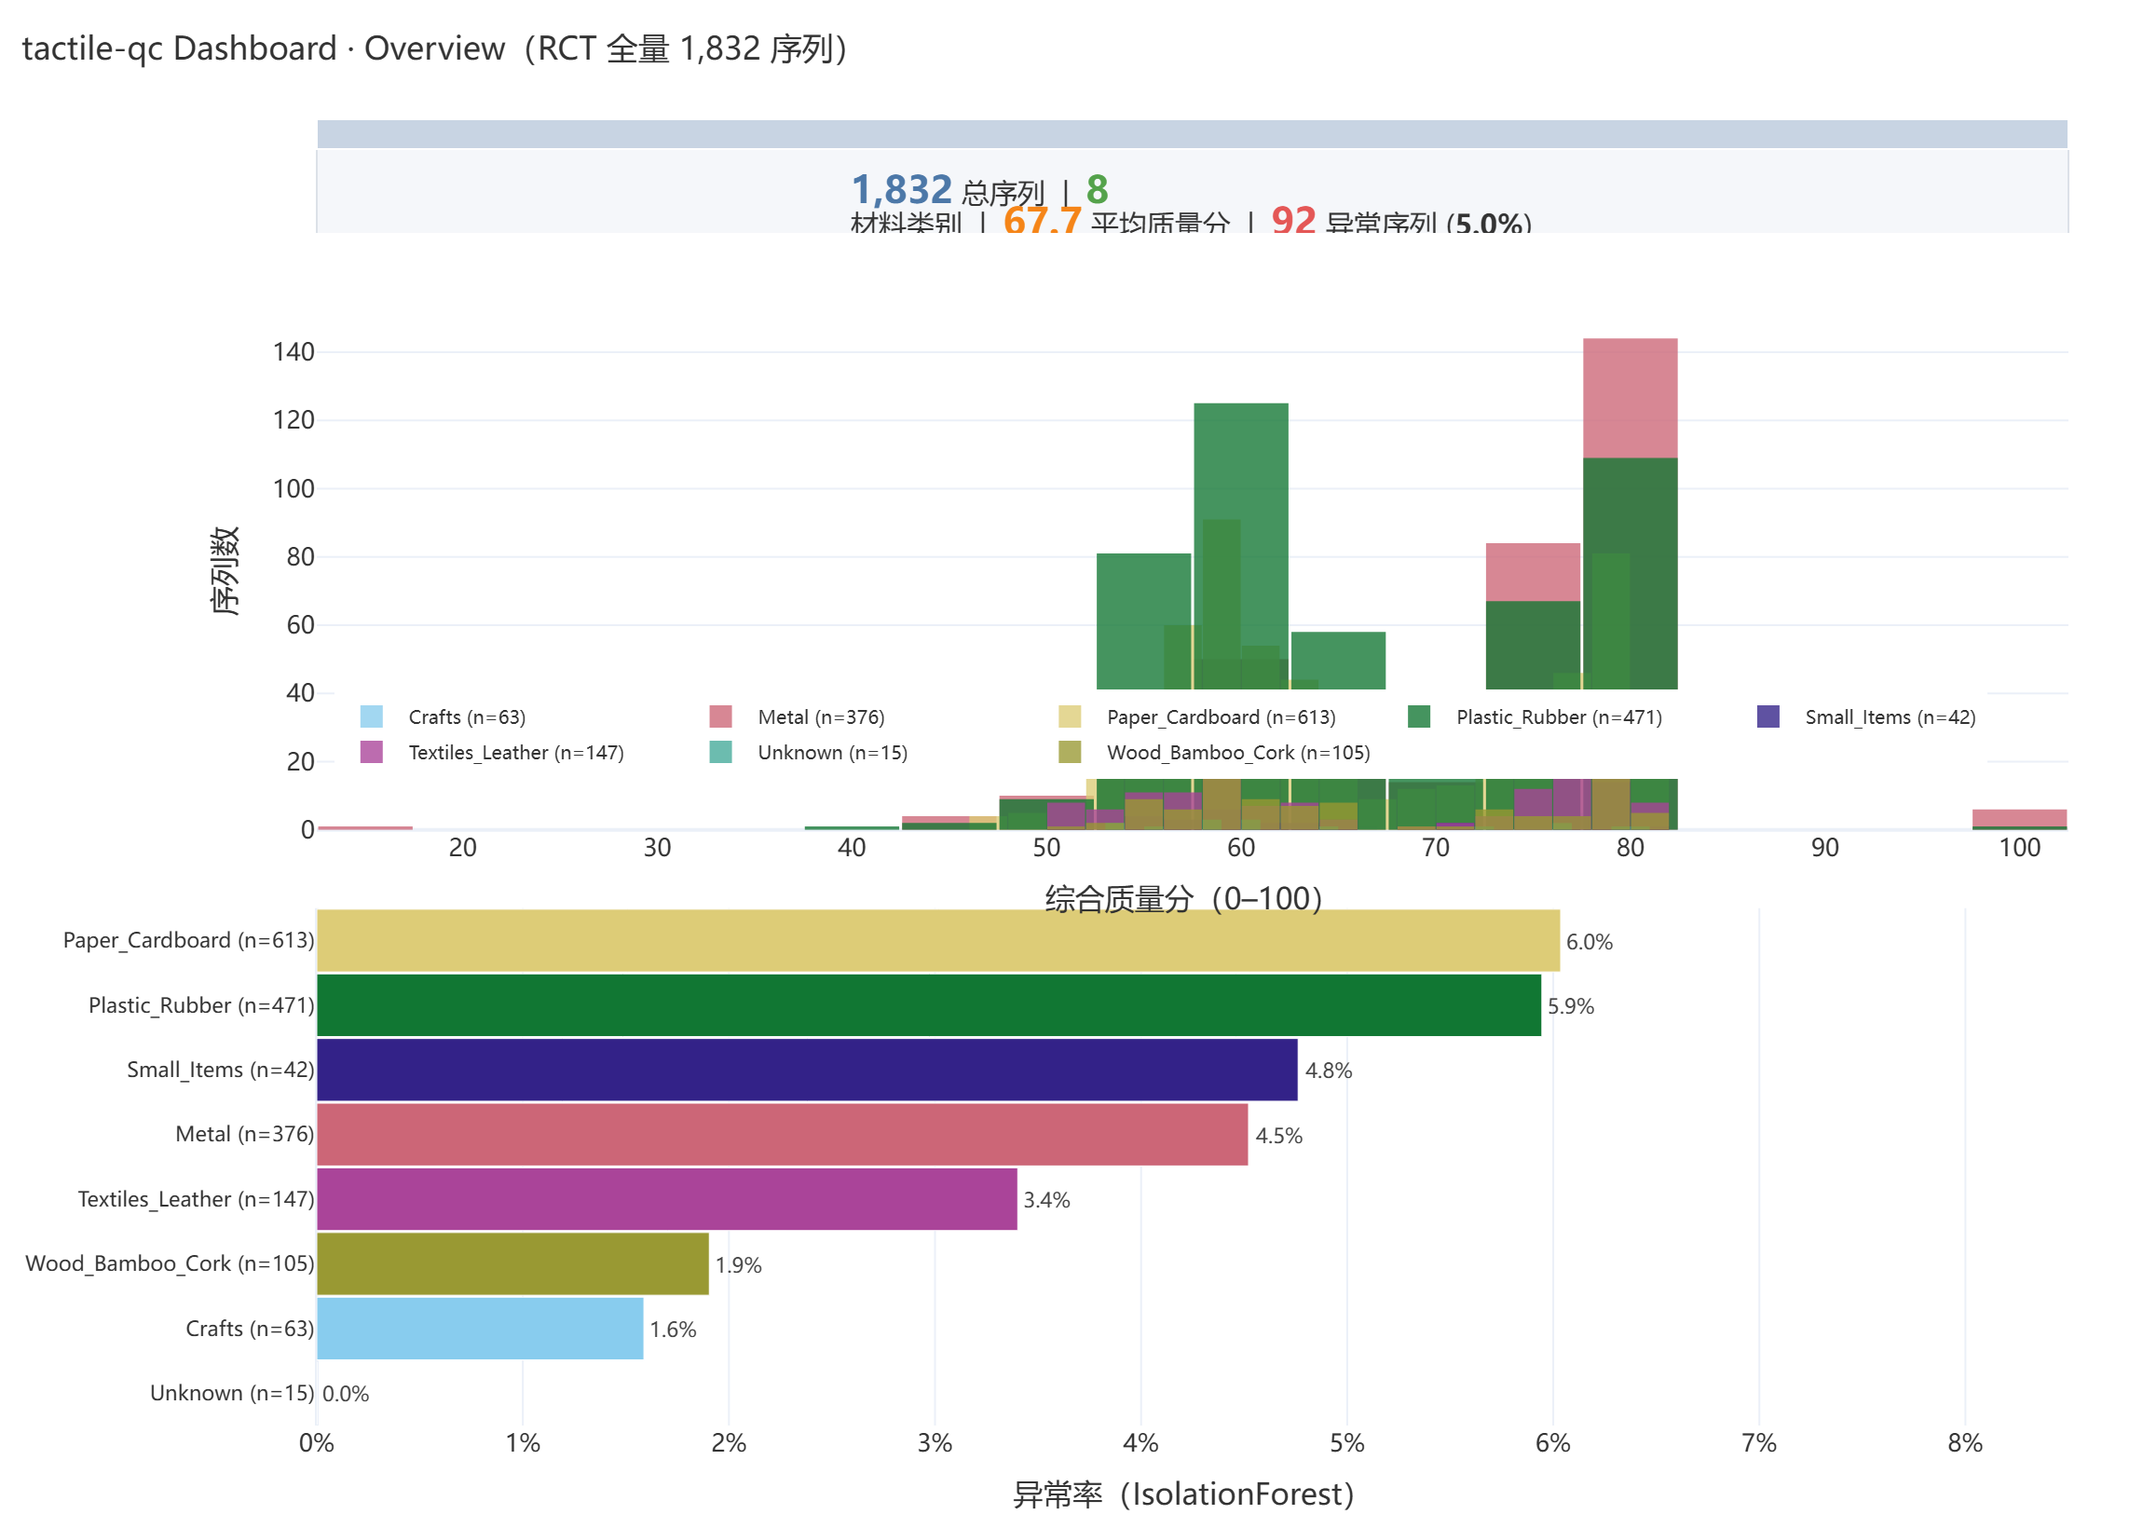
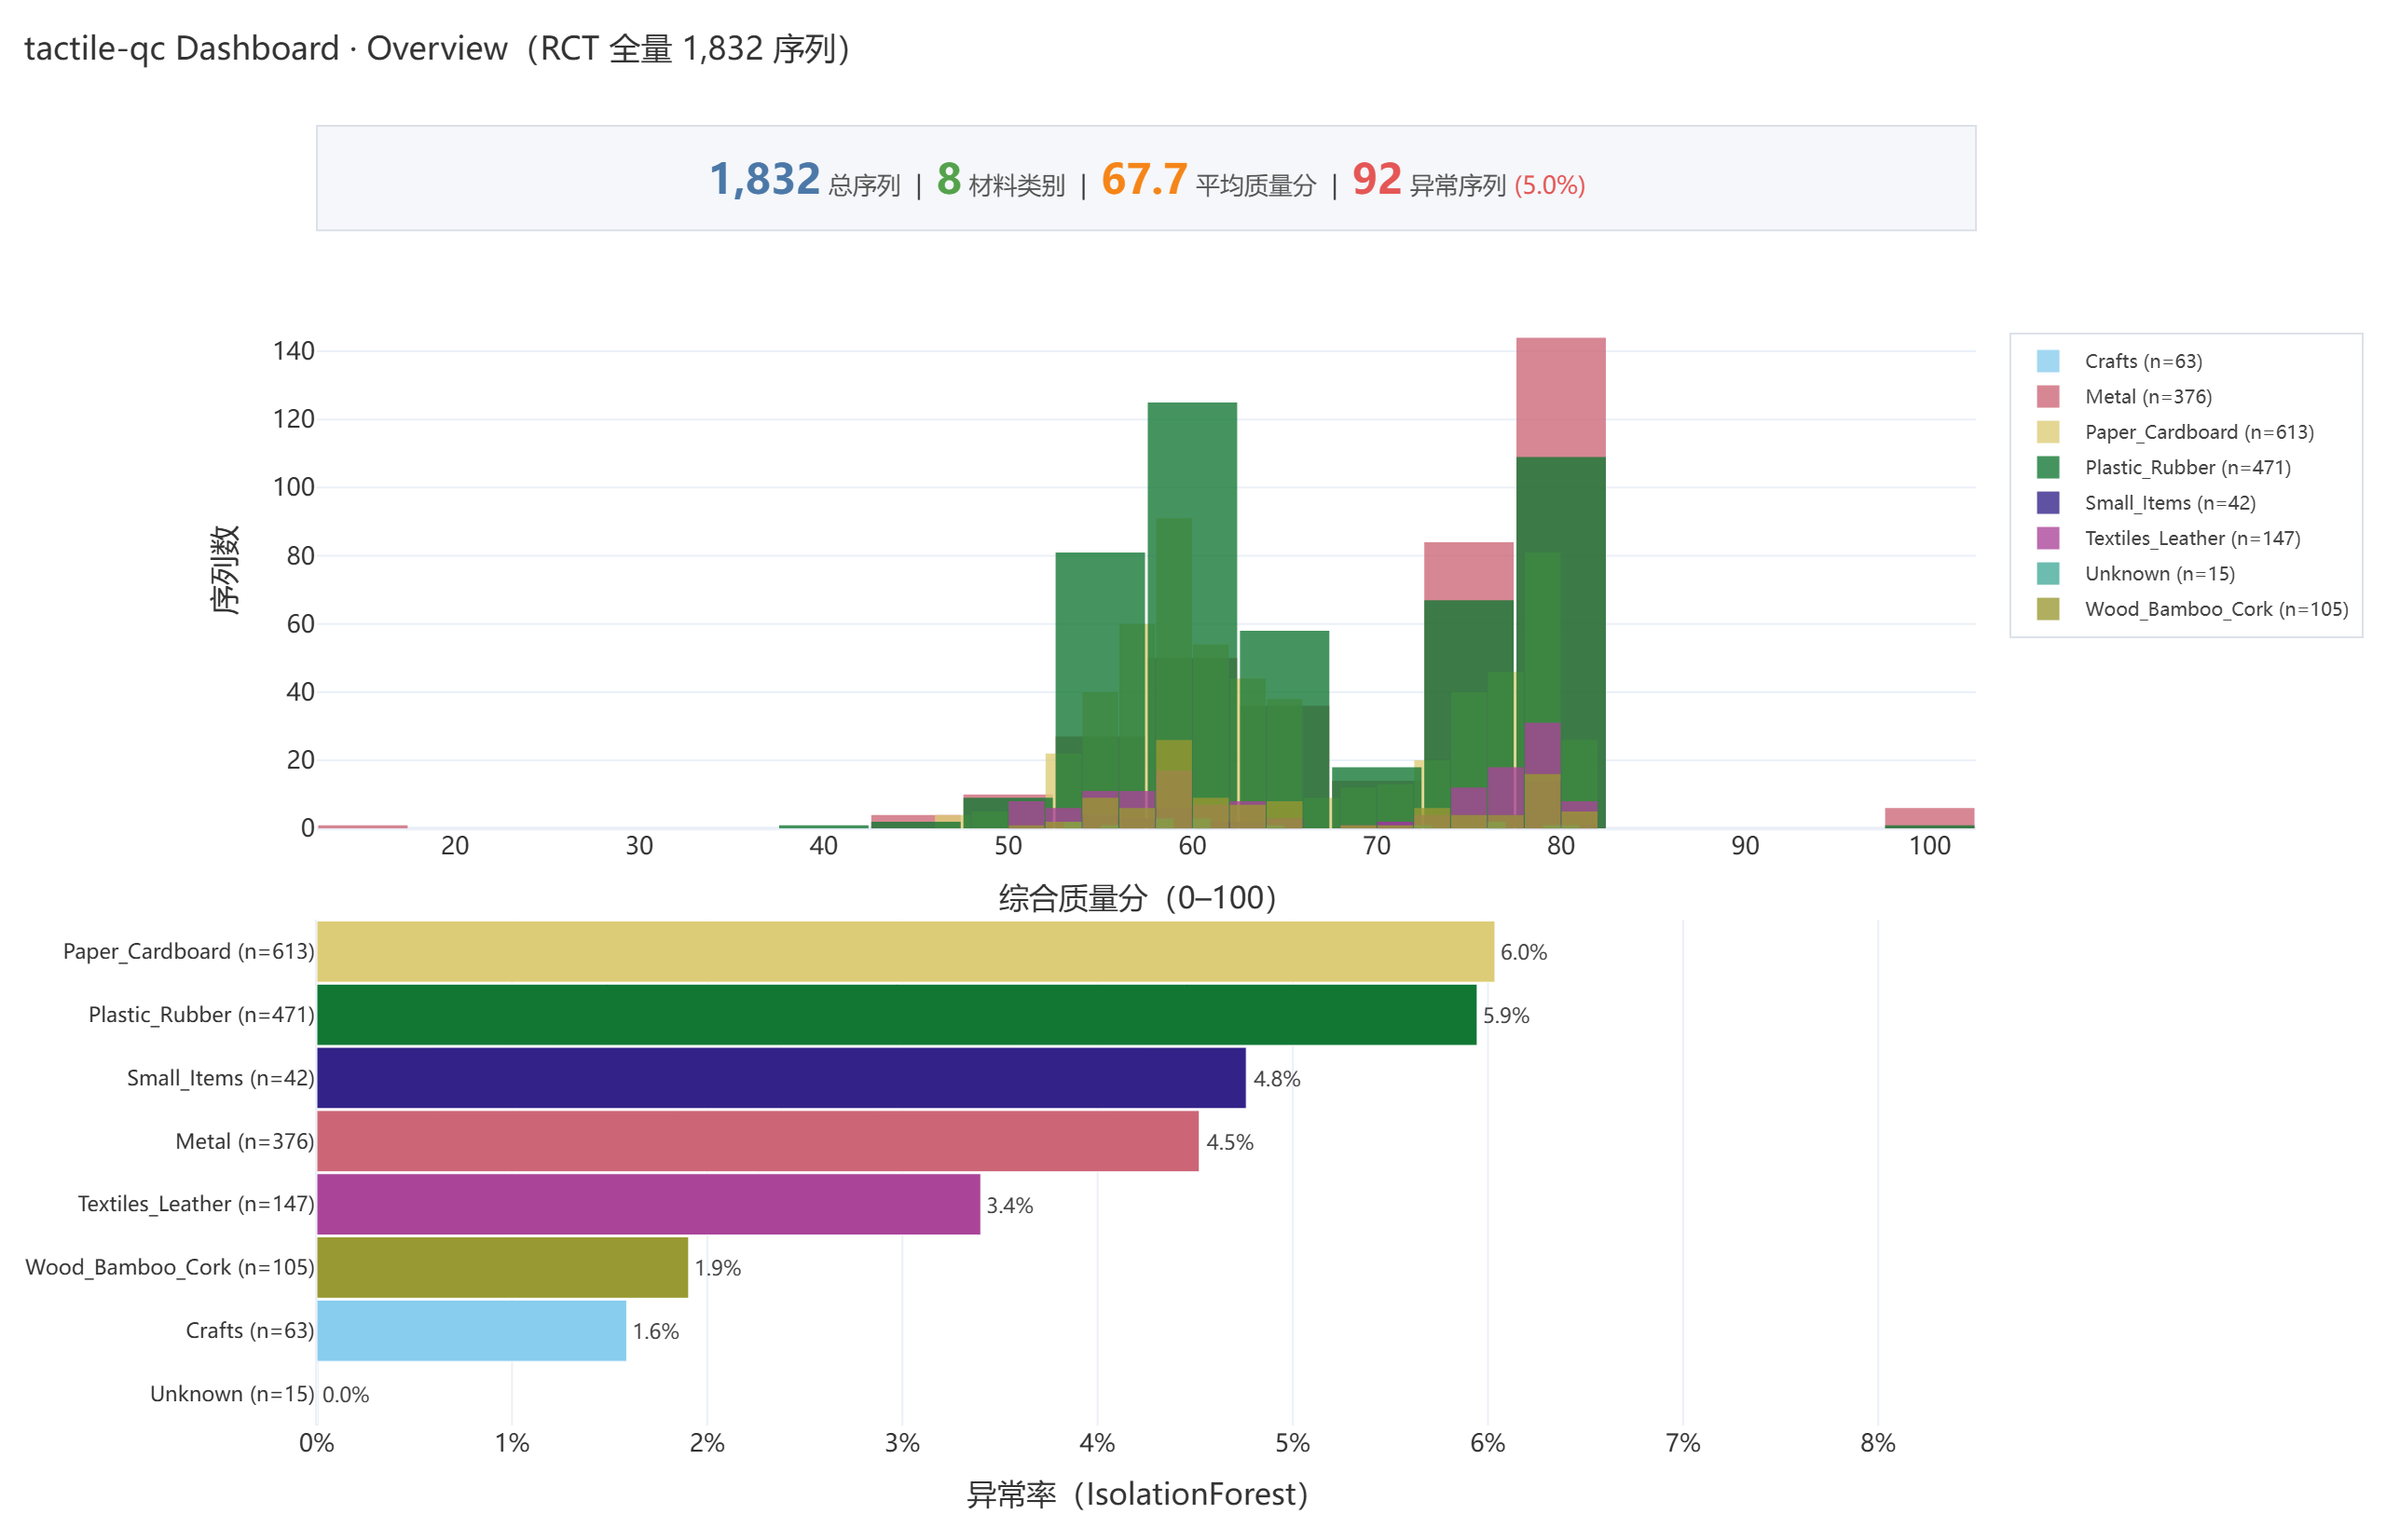
docs: fix README figure layout
修复两张 README 配图的排版 bug：

dashboard.png（scripts/make_dashboard_figure.py）

- KPI 灰条从 go.Table 改为 shape + annotation，不再强制折行（原 "1,832 总序列 | 8" 与 "材料类别" 被强行拆开 → 现：单行排版）

- 图例从直方图区域移到右侧外部（orientation=v, margin.r=200），不再遮挡柱子

quality_distribution.png（scripts/make_readme_figures.py）

- 关闭全局 legend，移除右上角多余的 'trace 0' 自动图例

- 显式设置右图 x 轴标题为"材料类别"（原：plotly 默认继承左图"综合质量分（0-100）"，事实性错误）

- 箱线图标签从两行改为单行，斜排角度从 35° 降到 30°，不再被裁

重跑两脚本重新生成 docs/assets/dashboard.png 与 quality_distribution.png。

diff --git a/scripts/make_dashboard_figure.py b/scripts/make_dashboard_figure.py
@@ -1,8 +1,13 @@
 # -*- coding: utf-8 -*-
 """生成 README 用的 Dashboard 配图（docs/assets/dashboard.png）。
 
-忠实复刻 Streamlit Dashboard 的 Overview 页：顶部 KPI 卡 + 质量分直方图
+忠实复刻 Streamlit Dashboard 的 Overview 页：顶部 KPI 条 + 质量分直方图
 （按材料着色）+ 按材料类别的异常率条形图。数据来自真实全量结果。
+
+排版要点（v2）：
+- KPI 条改用 shape + annotation 实现，避免 go.Table 强制折行
+- 图例改到右侧外部（orientation='v' + margin.r=200），不再压直方图
+- 直方图 x 轴标题下方留出充足间距
 """
 
 from pathlib import Path
@@ -31,36 +36,43 @@ palette = px.colors.qualitative.Safe
 cmap = {m: palette[i % len(palette)] for i, m in enumerate(sorted(df["material"].unique()))}
 
 # --------------------------------------------------------------------------- #
-# 用 3 行布局：第1行 KPI 文本注释，第2行直方图，第3行条形图
+# 3 行布局：第1行 domain 占位放 KPI 横幅（用 shape + annotation 渲染）；
+# 第2行直方图；第3行按材料异常率条形图。
 # --------------------------------------------------------------------------- #
 fig = make_subplots(
     rows=3, cols=1,
-    row_heights=[0.10, 0.45, 0.45],
-    vertical_spacing=0.06,
+    row_heights=[0.09, 0.46, 0.45],
+    vertical_spacing=0.07,
     specs=[[{"type": "domain"}], [{"type": "xy"}], [{"type": "xy"}]],
 )
 
-# (row1) KPI banner as a table-like annotation row
-kpi_html = (
-    f"<span style='font-size:15px;color:#333'>"
-    f"<b style='color:#4C78A8;font-size:20px'>{n:,}</b> 总序列 &nbsp;|&nbsp; "
-    f"<b style='color:#54A24B;font-size:20px'>{n_mat}</b> 材料类别 &nbsp;|&nbsp; "
-    f"<b style='color:#F58518;font-size:20px'>{mean_q:.1f}</b> 平均质量分 &nbsp;|&nbsp; "
-    f"<b style='color:#E45756;font-size:20px'>{n_anom}</b> 异常序列 "
-    f"(<b>{anom_rate:.1%}</b>)</span>"
+# --- KPI 横幅：用 rect + annotation，避免 go.Table 强制折行 --- #
+fig.add_shape(
+    type="rect", xref="paper", yref="paper",
+    x0=0.0, x1=1.0, y0=0.915, y1=0.995,
+    fillcolor="rgba(245,247,250,1)",
+    line=dict(color="rgba(220,225,232,1)", width=1),
+    layer="below",
 )
-fig.add_trace(
-    go.Table(
-        cells=dict(
-            values=[[kpi_html]], height=42, align="center",
-            fill=dict(color="rgba(245,247,250,1)"),
-            line=dict(color="rgba(220,225,232,1)", width=1),
-        ),
+fig.add_annotation(
+    xref="paper", yref="paper",
+    x=0.5, y=0.955, showarrow=False,
+    xanchor="center", yanchor="middle",
+    text=(
+        f"<b style='color:#4C78A8;font-size:22px'>{n:,}</b> "
+        f"<span style='color:#555;font-size:13px'>总序列</span> &nbsp;|&nbsp; "
+        f"<b style='color:#54A24B;font-size:22px'>{n_mat}</b> "
+        f"<span style='color:#555;font-size:13px'>材料类别</span> &nbsp;|&nbsp; "
+        f"<b style='color:#F58518;font-size:22px'>{mean_q:.1f}</b> "
+        f"<span style='color:#555;font-size:13px'>平均质量分</span> &nbsp;|&nbsp; "
+        f"<b style='color:#E45756;font-size:22px'>{n_anom}</b> "
+        f"<span style='color:#555;font-size:13px'>异常序列</span> "
+        f"<span style='color:#E45756;font-size:13px'>({anom_rate:.1%})</span>"
     ),
-    row=1, col=1,
+    font=dict(family=FONT, size=13, color="#333"),
 )
 
-# (row2) quality-score histogram by material (overlay)
+# --- (row2) 质量分直方图（按材料着色，overlay）--- #
 for m in sorted(df["material"].unique()):
     sub = df[df["material"] == m]
     fig.add_trace(
@@ -75,7 +87,7 @@ fig.update_xaxes(title_text="综合质量分（0–100）", row=2, col=1)
 fig.update_yaxes(title_text="序列数", row=2, col=1)
 fig.update_layout(barmode="overlay", bargap=0.03)
 
-# (row3) per-material anomaly rate horizontal bar
+# --- (row3) 按材料异常率横向条形图 --- #
 g = (
     df.assign(anomaly=df["iso_label"] == -1)
     .groupby("material")["anomaly"]
@@ -92,22 +104,35 @@ for _, r in g.iterrows():
             text=[f"{r['anomaly_ratio']:.1%}"], textposition="outside",
             textfont=dict(size=11, color="#444"),
             showlegend=False,
-            hovertemplate=f"{r['material']}<br>异常 {r['n_anomaly']}/{r['n']} "
-            f"({r['anomaly_ratio']:.1%})<extra></extra>",
+            hovertemplate=(
+                f"{r['material']}<br>异常 {r['n_anomaly']}/{r['n']} "
+                f"({r['anomaly_ratio']:.1%})<extra></extra>"
+            ),
         ),
         row=3, col=1,
     )
-fig.update_xaxes(title_text="异常率（IsolationForest）", tickformat=".0%",
-                 range=[0, 0.085], row=3, col=1)
+fig.update_xaxes(
+    title_text="异常率（IsolationForest）",
+    tickformat=".0%", range=[0, 0.085],
+    row=3, col=1,
+)
 fig.update_yaxes(tickfont=dict(size=11), row=3, col=1)
 
 fig.update_layout(
-    width=1150, height=820,
+    width=1280, height=820,
     template="plotly_white",
     font=dict(family=FONT, size=13, color="#333"),
-    margin=dict(l=60, r=40, t=64, b=50),
-    legend=dict(orientation="h", yanchor="bottom", y=0.495,
-                xanchor="left", x=0.01, font=dict(size=10)),
+    margin=dict(l=60, r=200, t=64, b=50),
+    legend=dict(
+        # 移到右侧外部，竖直排布；不再遮挡直方图
+        orientation="v",
+        yanchor="middle", y=0.72,
+        xanchor="left", x=1.02,
+        font=dict(size=10, color="#444"),
+        bgcolor="rgba(255,255,255,0.6)",
+        bordercolor="rgba(220,225,232,1)",
+        borderwidth=1,
+    ),
     title=dict(
         text="tactile-qc Dashboard · Overview（RCT 全量 1,832 序列）",
         font=dict(size=17), x=0.01,

diff --git a/scripts/make_readme_figures.py b/scripts/make_readme_figures.py
@@ -51,7 +51,8 @@ for _i, m in enumerate(order):
     sub = df[df["material"] == m]
     fig.add_trace(
         go.Box(
-            y=sub["quality_score"], name=f"{m}<br>(n={len(sub)})",
+            # 单行标签更紧凑，避免斜排时互相挤压
+            y=sub["quality_score"], name=f"{m} (n={len(sub)})",
             marker_color="#4C78A8", line_color="#2b5d8a",
             fillcolor="rgba(76,120,168,0.45)", boxmean=True,
             showlegend=False, hovertemplate="%{y:.1f}<extra>" + m + "</extra>",
@@ -60,15 +61,21 @@ for _i, m in enumerate(order):
     )
 
 fig.update_xaxes(title_text="综合质量分（0–100）", row=1, col=1)
-fig.update_xaxes(tickangle=35, tickfont=dict(size=10), row=1, col=2)
+# 右图 x 轴必须显式设标题，否则 plotly 会继承左图的"综合质量分（0–100）"
+fig.update_xaxes(
+    title_text="材料类别", tickangle=30, tickfont=dict(size=10),
+    row=1, col=2,
+)
 fig.update_yaxes(title_text="序列数", row=1, col=1)
 fig.update_yaxes(title_text="综合质量分", range=[-2, 102], row=1, col=2)
 
 fig.update_layout(
-    width=1150, height=470,
+    # 全局关掉 legend；否则 plotly 会给无名箱线图显示 "trace 0"
+    showlegend=False,
+    width=1180, height=520,
     template="plotly_white",
     font=dict(family=FONT, size=13, color="#333"),
-    margin=dict(l=60, r=30, t=70, b=90),
+    margin=dict(l=70, r=30, t=70, b=90),
     title=dict(
         text="RCT 触觉数据集 — 每序列综合质量分分布（SNR / 漂移 / 饱和 / 力异常 / SPC 加权）",
         font=dict(size=16),
